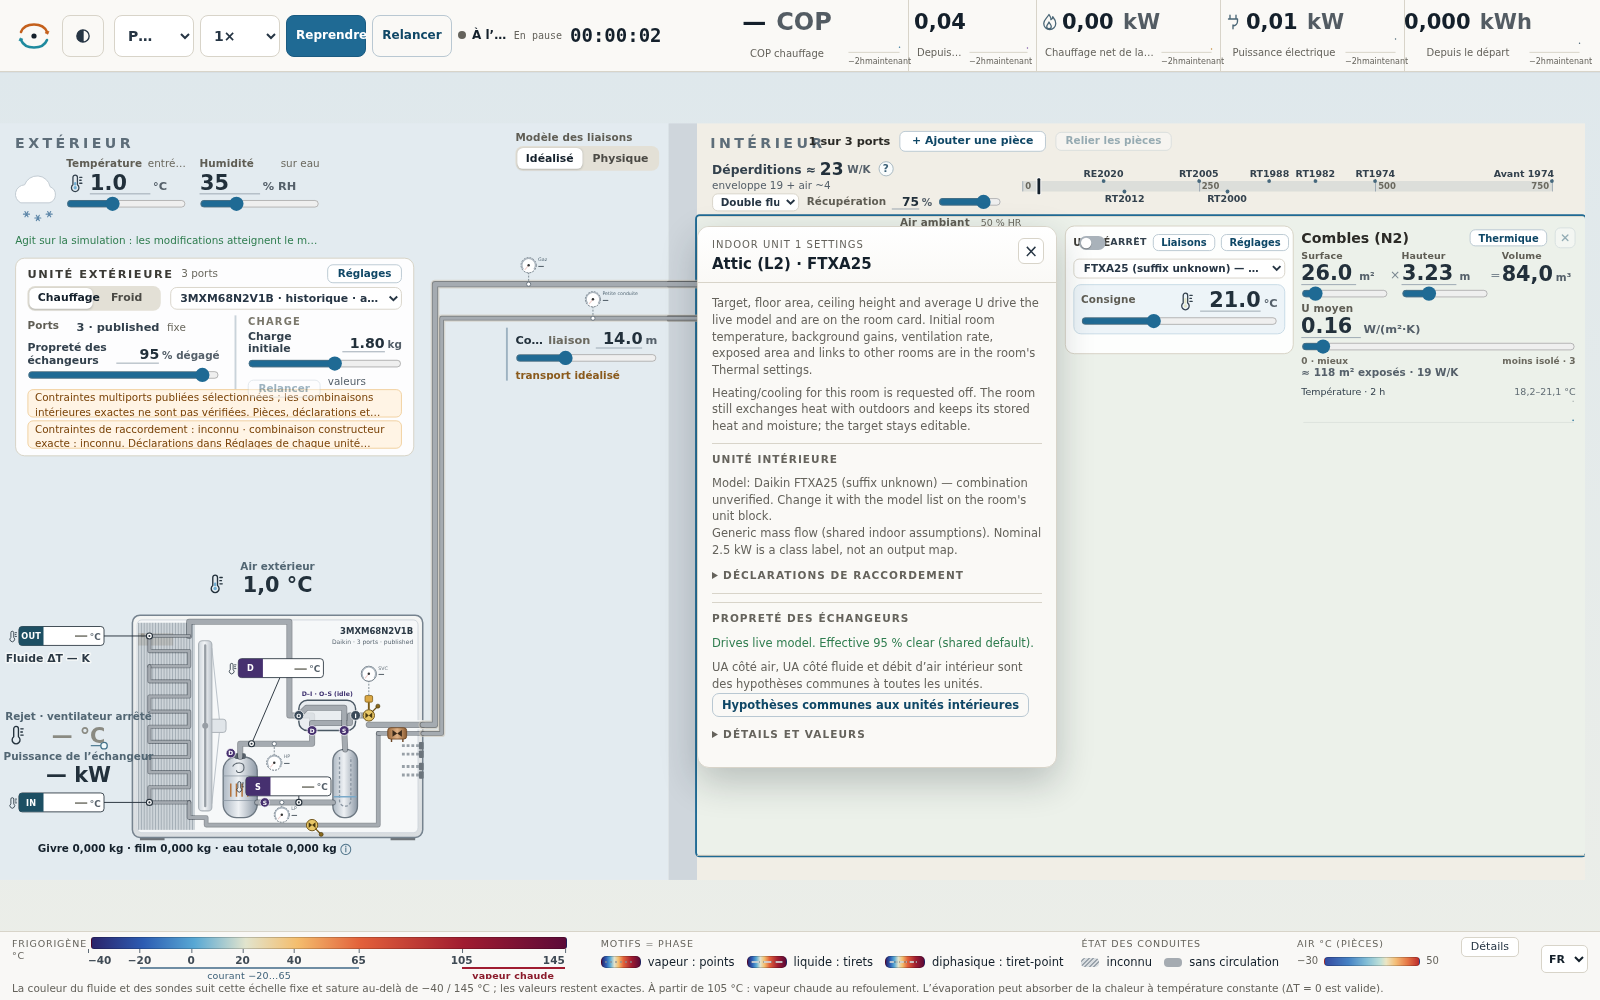
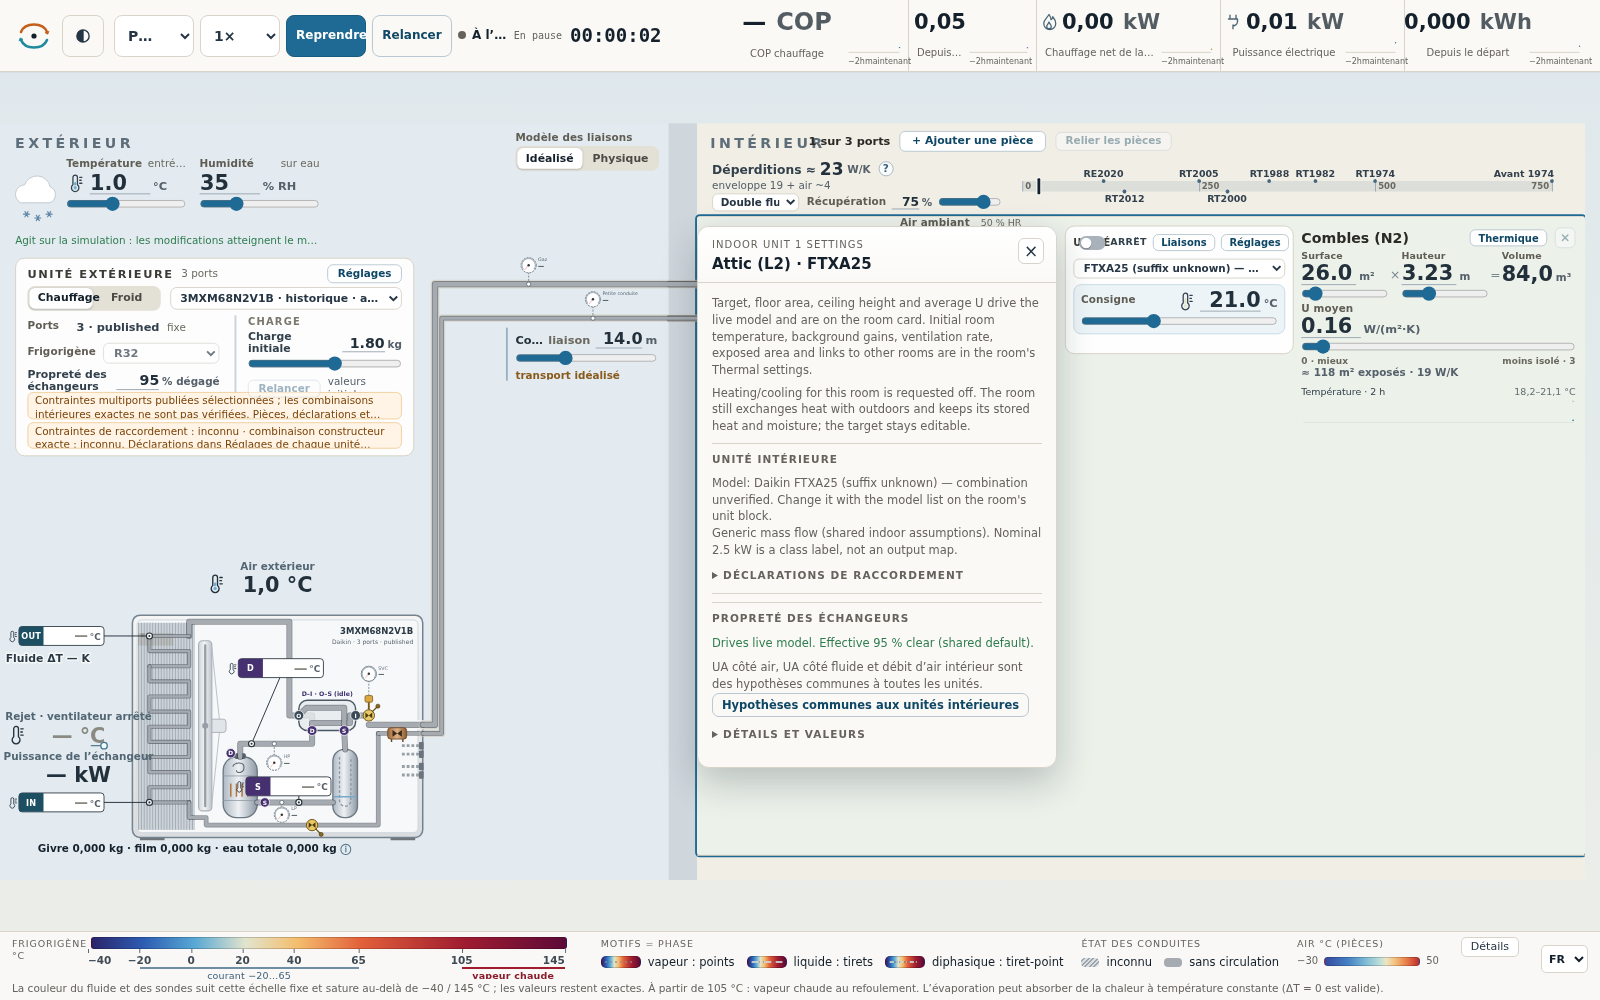
Verify legacy multisplit integration and clarify current catalogue scope

Changed region(s): [[0.0, 0.341, 0.25, 0.465]]

diff --git a/PROGRESS.md b/PROGRESS.md
@@ -9,7 +9,7 @@ Audited 2026-10-11 against the deployed source, release receipts and current res
 ### Open work from the requested simulator scope
 
 - **Charge response:** the public Reference engine does not respond to Initial charge. The conserved inventory engine remains gated until sustained owner three-head operation, natural charged frosting/defrost/thaw/drainage, fresh cooling, timestep checks and usable browser throughput pass. The slider is present; the feature is not released.
-- **Complete equipment catalogue:** accepted runtime coverage is 50 Daikin outdoor / 119 indoor and 25 Mitsubishi outdoor / 45 indoor profiles. Nine current MXM A8/A9 models now have source-reviewed casing, head limits and typed port/class/reducer constraints; 27 source tests, 6 topology tests and 44 actual root-snapshot browser checks pass. Exact OEM full-SKU compatibility and compressor/exchanger performance remain unknown. Owner-generation 2MXM/3MXM/4MXM/5MXM N/N8/N9 research is complete and under independent import review; unpublished legacy connection and operating bounds remain unknown. Remaining consumer-family coverage is documented in `reviews/mxm-remaining-catalogue-gaps.md` and remains open.
+- **Complete equipment catalogue:** accepted runtime coverage is 59 Daikin outdoor / 119 indoor and 25 Mitsubishi outdoor / 45 indoor profiles. Nine current MXM A8/A9 models now have source-reviewed casing, head limits and typed port/class/reducer constraints; 27 source tests, 6 topology tests and 44 actual root-snapshot browser checks pass. Exact OEM full-SKU compatibility and compressor/exchanger performance remain unknown. Nine owner-generation 2MXM/3MXM/4MXM/5MXM N/N8/N9 models are now independently reviewed and integrated locally (29 source + 7 topology + 16 legacy and 44 current root-snapshot browser checks), with original source staging preserved; unpublished legacy connection and operating bounds remain unknown. Remaining consumer-family coverage is documented in `reviews/mxm-remaining-catalogue-gaps.md` and remains open.
 - **Additional refrigerants:** seven Reference fluids (R32, R22, R290, R134a, R1234yf and documented pseudo-pure R410A/R407C) are now qualified locally. The seven-fluid integration passes 156/156 native regression, 7 frontend checks and 5 actual-selection browser groups. R407C retains native bubble/dew glide; interior mass quality and phase compositions are unresolved, with separately documented full-mixture comparison rather than a claim of resolved fractionation. Physical lines/inventory stay R32-only. Seven-fluid publication is verified against its exact assets and visible worker controls.
 - **Compressor startup fidelity:** the integrated idealized Reference inverter now ramps actual refrigerant throughput from rest at2rps/s, with15 permanent startup gates and9 retained inverter gates. Fixed/defrost commands and physical-line minimum starts remain separate. Rotor inertia and motor electrical transients remain outside the quasi-steady approximation. Physical cooling retains18rps because unequal-branch8rps operation is not qualified.
 - **Owner measurement comparison:** initial read-only comparison is complete without fitting: all15 export checksums,8 aggregate/counter comparisons,84 native refrigerant points and24 ventilation sensitivity cases pass. Historical settings/outdoor RH and delivered heat remain unknown, so electricity overlap does not validate installed COP or identify solar gains. See `research/owner-reference-comparison.md`; future controlled-input/holdout validation remains open.
@@ -27,7 +27,7 @@ Six-fluid selector and actual idealized inverter startup increment `577a4ce` is 
 
 French presentation increment21023bc is deployed through successful GitHub run38152120292 (127Reference +7frontend +23catalogue +25smoke). Seven exact-bundle hosted checks,2published French checks and production URL initialization pass; receipt: `reviews/github-pages-french-deployment.json`. The EN/FR chooser sits beside the existing legend; English is the initial default. Explicit weak presentation bindings update existing text/attributes in place, including trusted inspector fragments, without rebuilding controls or touching worker configuration. Native input values, identifiers and diagnostic data retain machine formatting. The earlier navigation check is updated for shared thermometer/flame/snowflake symbols and now passes10/10; header5/5 and measurement-symbol5/5 regression checks pass. The deployment is verified against its frozen JS/CSS/worker/WASM assets.
 
-Room-history increment passes accepted-temperature/disabled-head provenance, paused controls, room-ID rebinding, Examples/reset isolation and four desktop widths. Header5/5 remains green. Inventory-only displacement startup now ramps from rest at2rps/s (down4rps/s), with timestep/refined restart/protection tests6/6; the gated inventory solver still requires its separate scientific/throughput release checks. Public Reference startup is unchanged. HA comparison is complete without fitting, as recorded above. Room-history release `66ca8be` is deployed through successful GitHub run38149952094 (127Reference +6history/URL +23catalogue +25smoke). Seven matching-bundle hosted checks, production URL initialization and2focused published room-chart checks pass. Receipt: `reviews/github-pages-room-history-deployment.json`.
+Room-history increment passes accepted-temperature/disabled-head provenance, paused controls, room-ID rebinding, Examples/reset isolation and four desktop widths. Header5/5 remains green. Inventory-only displacement startup now ramps from rest at2rps/s (down4rps/s), with timestep/refined restart/protection tests6/6; the gated inventory solver still requires its separate scientific/throughput release checks. Public Reference startup was unchanged at that room-history checkpoint; the subsequent actual Reference ramp is verified above. HA comparison is complete without fitting, as recorded above. Room-history release `66ca8be` is deployed through successful GitHub run38149952094 (127Reference +6history/URL +23catalogue +25smoke). Seven matching-bundle hosted checks, production URL initialization and2focused published room-chart checks pass. Receipt: `reviews/github-pages-room-history-deployment.json`.
 
 The next nine current Daikin MXM physical/connection candidates have a corrected, independently verified research checkpoint. Port/reducer alternatives, seven maximum-total-charge caps and floor-head restriction locators were checked against pinned installer sources. Exact typed multi-port compatibility remains required before runtime acceptance; these candidates are not added to the selector yet.
 

diff --git a/README.md b/README.md
@@ -24,27 +24,17 @@ Weather, mode, per-room targets, On/Off and observed air temperatures can initia
 
 ## GitHub Pages
 
-Shared vector thermometer/flame/snowflake symbols are deployed at `2956702`. GitHub passed126Reference,5history/URL,23catalogue and25smoke checks; seven matching-asset hosted checks, production URL initialization and two focused symbol checks pass. Receipt: `reviews/github-pages-measurement-symbols-deployment.json`.
-
-Current catalogue release `0fcd2d9` is deployed with41Daikin outdoor/119indoor and25Mitsubishi outdoor/45indoor profiles; coverage remains partial. GitHub passed126Reference,5history/URL,23catalogue and25smoke checks, followed by seven checks against the exact hosted bundles and production URL initialization. Receipt: `reviews/github-pages-current-stylish-deployment.json`.
-
 Repository: https://github.com/AnnoyingTechnology/heatpump-simulator
 
 Site: https://annoyingtechnology.github.io/heatpump-simulator/
 
-`.github/workflows/pages.yml` installs locked dependencies, checks types, builds and verifies the released Reference model with the guarded property backend, then publishes `dist/`. Pushes to `main` deploy automatically; the workflow also supports manual runs. GitHub Pages uses the GitHub Actions publishing source. The existing relative asset base keeps the worker and self-hosted WASM inside the project URL.
+The verified seven-fluid Reference release `518a9b0` passed 156 thermodynamic checks, 7 frontend checks, 23 catalogue checks and 25 operating-transition schedules on GitHub. Hosted checks verify the exact application/worker/WASM assets, URL initialization and fresh physical workers for all selectable fluids. French presentation, room-temperature charts, vector measurement symbols and actual idealized compressor startup are delivered. Receipts and subsequent catalogue releases are recorded in [PROGRESS.md](PROGRESS.md).
 
-The first deployment passed 35 checks on GitHub and four hosted checks. The expanded stability release passed all **45 checks**, followed by four hosted checks and **600.7 simulated seconds at requested 5×** with the attic off, outdoor −0.5°C, ground target 17.5°C and upstairs target 22.5°C. The owner test uses 35% RH; the original failure's humidity remains unknown. Inverter protection, unequal-temperature indoor condensers and conservative outdoor fog retain the original physical limits. Stability evidence is in `reviews/github-pages-stability-deployment.json`. The subsequent zoom/thermostat/trend release passed **47 Reference/property checks and 2 history checks** on GitHub, followed by **5 hosted-browser checks**, including scales after zoom and borderless metric plots. Its matching deployed artifacts and successful run `38115146723` are recorded in `reviews/github-pages-zoom-deployment.json`.
+The accepted source catalogue now contains 59 Daikin outdoor / 119 indoor and 25 Mitsubishi outdoor / 45 indoor references, including nine current MXM A8/A9 and nine legacy N/N8/N9 multisplits. Deployment of the current increment is in progress; the legacy successor is being verified locally. Full manufacturer coverage remains open. Casing and necessary installation rules do not establish exact OEM indoor combinations or performance maps; unpublished legacy bounds stay unknown.
 
-The preceding 0–750 W/K loss-scale release (`368f6b0`) passed **52 Reference/property checks and 2 history checks** on GitHub, followed by **6 hosted-browser checks**. All eight midpoint markers remain directly labelled beneath each room slider. Four focused local checks verify alignment, 32 desktop layouts and above-cap commits without resetting state. Deployed scripts, styles and WASM match the build; receipt: `reviews/github-pages-loss-cap-deployment.json`.
+`.github/workflows/pages.yml` installs locked dependencies, checks types, builds and verifies the released Reference model with the guarded property backend, validates catalogue sources and installation constraints, then publishes `dist/`. Pushes to `main` deploy automatically; manual runs are supported. All worker and self-hosted WASM URLs remain inside the project subdirectory.
 
-The preceding room-link/session/water release (`732bc55`) passed **69 Reference/property checks and 2 history checks** on GitHub, followed by **7 hosted-browser checks**. Its 28 local browser checks include actual cooling condensate accounting, visual room-link placement, focused editing and desktop layouts. The deployed scripts, styles and WASM match the tested build; receipt: `reviews/github-pages-house-deployment.json`.
-
-The house/energy stability release (`86dbc4d`) passed **91 Reference/property checks, 2 history checks, 7 catalogue checks and 25 robustness smoke schedules** on GitHub run `38133655370`. Seven hosted checks verified matching application, worker and WASM assets, the actual worker, house defaults, energy history, zoom and edits that retain the clock. Receipt: `reviews/github-pages-house-energy-deployment.json`.
-
-The header refinement (`9e6558a`) passed the same91+2+7 checks and25smoke schedules, plus seven hosted checks with matching bundles. Units are the same size as values and the clock reads HH:MM:SS. Receipt: `reviews/github-pages-header-deployment.json`.
-
-The hosted application, worker and WASM match the verified build. Paused weather and individual-unit edits preserve the clock. Recheck with `node tools/check-hosted-pages.mjs` and `node tools/check-hosted-stability.mjs`, using the project's isolated QA Chromium. The first deployment evidence remains in `reviews/github-pages-deployment.json`; current browser checks are in `reviews/github-pages-browser-results.json`.
+Verify the deployed build using `node tools/check-hosted-pages.mjs` and the focused hosted checks. Use a frozen build/source snapshot when newer work is already present locally. Historical release evidence remains in `reviews/` and [PROGRESS.md](PROGRESS.md).
 
 ## Current interface
 
